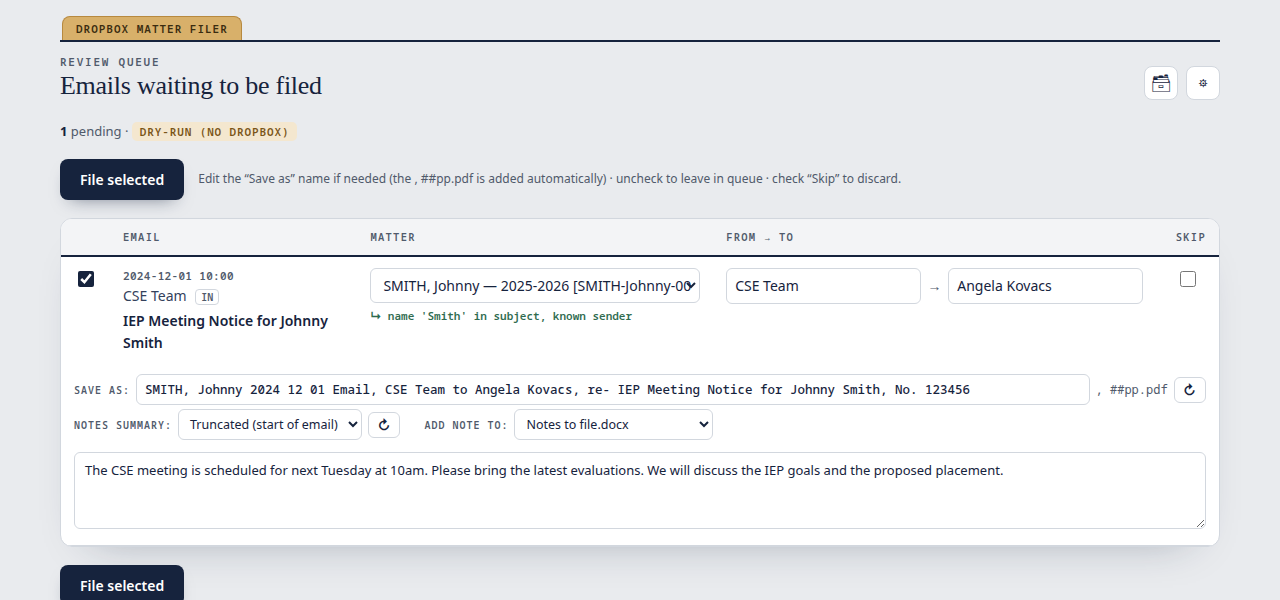
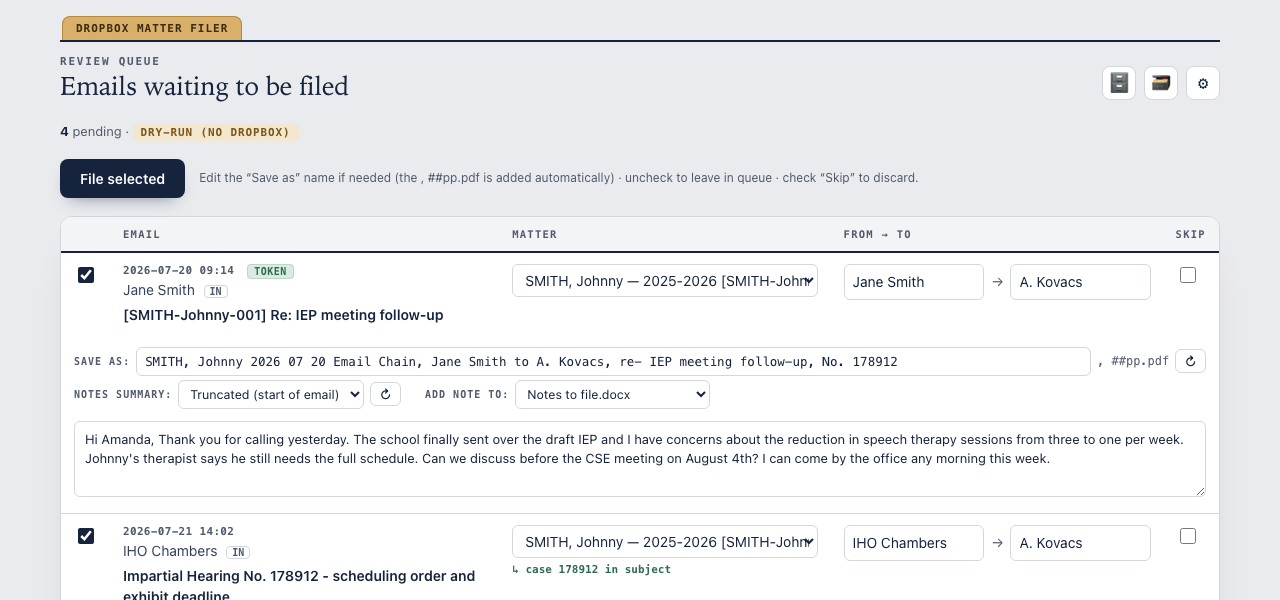
New history screen

diff --git a/index.html b/index.html
@@ -209,7 +209,7 @@ bring the latest evaluations to discuss IEP goals.</pre>
 <section class="band">
   <div class="wrap">
     <p class="eyebrow" style="margin-bottom:12px">The review screen</p>
-    <p class="shotcap">It all happens in one local screen at <code>127.0.0.1:8765</code>.
+    <p class="shotcap">Filing happens in one local screen at <code>127.0.0.1:8765</code>.
       Each email arrives with its matter already picked and a filename built in the firm's
       convention. You glance, adjust anything that's off, and file.</p>
     <figure class="shot">
@@ -241,6 +241,19 @@ bring the latest evaluations to discuss IEP goals.</pre>
           line is added to the notes doc.</p>
       </div>
     </div>
+  </div>
+</section>
+
+<section class="band">
+  <div class="wrap">
+    <p class="eyebrow" style="margin-bottom:12px">The history screen</p>
+    <p class="shotcap">The paper trail keeps itself. Every filed email is on the History
+      screen — when it was filed and to which matter — with one-click links to the PDF
+      and the notes entry it produced.</p>
+    <figure class="shot">
+      <img src="screenshot-history.png" width="1280" height="460"
+           alt="The filing history: three filed emails with dates, matters, and links to each one's PDF and notes doc.">
+    </figure>
   </div>
 </section>
 
